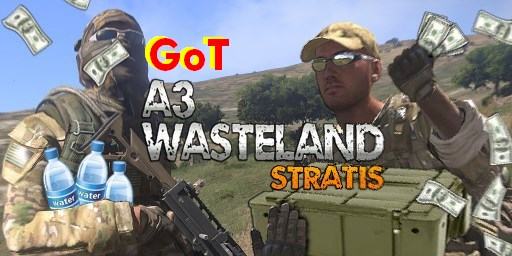
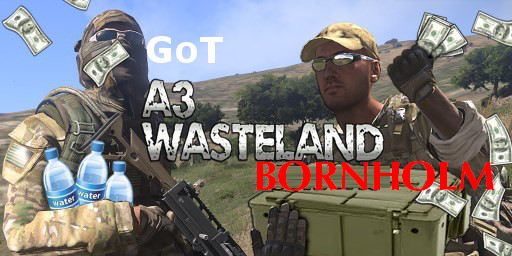
Initial port to Bornholm
Todo:
- convoy routes/startpoints
- some spawn/missionmarkers still badly placed
- store placement is still abit wierd
- checkout ATM's on the map
- add additional fuel stations on the map

diff --git a/README.md b/README.md
@@ -1,4 +1,4 @@
-*Wasteland.Stratis* by Team Wasteland!
+*Wasteland.Bornholm* by Team Wasteland (Bonholm port: JoSchaap)!
 ===================
 
 ArmA 3 Wasteland is a harsh survival sandbox mission where 2 teams and independent players fight for survival.
